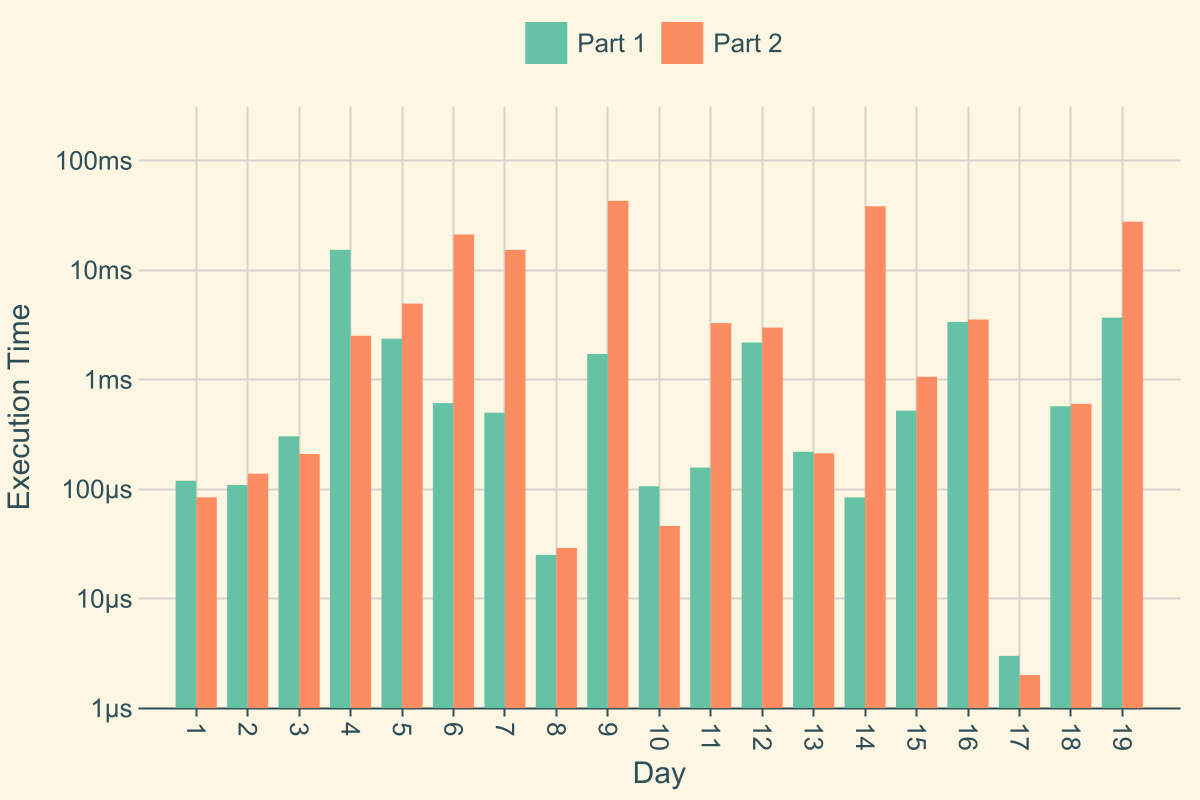
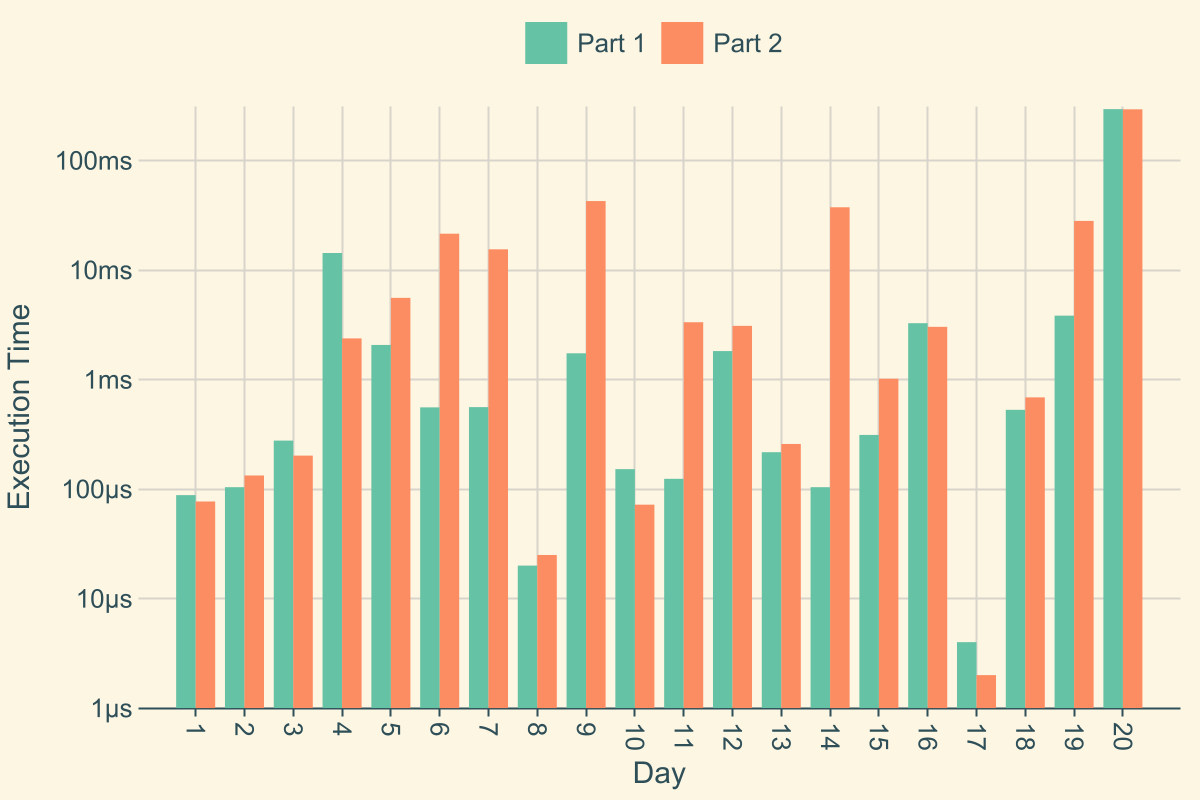
day20

Changed region(s): [[0.1233, 0.125, 0.9558, 0.9375]]

diff --git a/src/day20.rs b/src/day20.rs
@@ -1,0 +1,259 @@
+use crate::harness::Day;
+use crate::harness::Part;
+use std::cmp::max;
+use std::cmp::min;
+use std::collections::{HashMap, HashSet};
+use std::ops::{Add, AddAssign, Mul, Neg, Sub};
+use std::time::Instant;
+
+pub fn day20() -> Day<i32, i32> {
+    Day::new(20, Box::new(Part1 {}), Box::new(Part2 {}))
+}
+
+pub struct Part1;
+
+impl Part<i32> for Part1 {
+    fn expect_test(&self) -> i32 {
+        0
+    }
+
+    fn solve(&self, input: &[String]) -> i32 {
+        let input = Input::from(input);
+
+        let dist = input.dijkstra();
+
+        let get = |v: Vec2| {
+            dist.get(v.y as usize)
+                .and_then(|e| e.get(v.x as usize))
+                .filter(|&&e| e < i32::MAX / 4)
+                .cloned()
+        };
+
+        let mut result = 0;
+
+        let directions = vec![Vec2::EAST, Vec2::SOUTH];
+
+        for y in 1..input.height() - 1 {
+            for x in 1..input.width() - 1 {
+                let current = v(x as i32, y as i32);
+                if let Some(current_dist) = get(current) {
+                    for &direction in &directions {
+                        let other = current + direction * 2;
+                        if let Some(other_dist) = get(other) {
+                            let diff = (current_dist.abs_diff(other_dist) as i32) - 2;
+
+                            if diff >= 100 {
+                                result += 1;
+                            }
+                        }
+                    }
+                }
+            }
+        }
+
+        result
+    }
+}
+
+pub struct Part2;
+
+impl Part<i32> for Part2 {
+    fn expect_test(&self) -> i32 {
+        0
+    }
+
+    fn solve(&self, input: &[String]) -> i32 {
+        let input = Input::from(input);
+
+        let dist = input.dijkstra();
+
+        let get = |v: Vec2| {
+            dist.get(v.y as usize)
+                .and_then(|e| e.get(v.x as usize))
+                .filter(|&&e| e < i32::MAX / 4)
+                .cloned()
+        };
+
+        let mut result = 0;
+
+        for y1 in 1..input.height() - 1 {
+            for x1 in 1..input.width() - 1 {
+                for y2 in max(1, y1 - 20)..min(input.height() - 1, y1 + 20) {
+                    for x2 in max(1, x1 - 20)..min(input.width() - 1, x1 + 20) {
+                        let current = v(x1 as i32, y1 as i32);
+                        if let Some(current_dist) = get(current) {
+                            let other = v(x2 as i32, y2 as i32);
+                            if let Some(other_dist) = get(other) {
+                                let dist = current.manhattan_dist(other) as i32;
+                                let diff = current_dist.abs_diff(other_dist) as i32 - dist;
+
+                                if diff >= 100 {
+                                    result += 1;
+                                }
+                            }
+                        }
+                    }
+                }
+            }
+        }
+
+        result / 2
+    }
+}
+
+#[derive(Debug)]
+enum Tile {
+    Empty,
+    Wall,
+}
+
+#[derive(Debug)]
+struct Input {
+    map: Vec<Vec<Tile>>,
+    start: Vec2,
+    end: Vec2,
+}
+
+impl Input {
+    fn width(&self) -> usize {
+        self.map[0].len()
+    }
+    fn height(&self) -> usize {
+        self.map.len()
+    }
+
+    fn dijkstra(&self) -> Vec<Vec<i32>> {
+        let mut dist = vec![vec![i32::MAX / 2; self.width()]; self.height()];
+        dist[self.end.y as usize][self.end.x as usize] = 0;
+
+        let mut open = HashSet::from([self.end]);
+        let mut closed = HashSet::new();
+
+        while let Some(&u) = open.iter().min_by_key(|e| dist[e.y as usize][e.x as usize]) {
+            open.remove(&u);
+            if !closed.insert(u) {
+                continue;
+            }
+
+            for direction in Vec2::CARDINAL_DIRECTIONS {
+                let v = u + direction;
+
+                if let Tile::Wall = self.map[v.y as usize][v.x as usize] {
+                    continue;
+                }
+
+                let alt = dist[u.y as usize][u.x as usize] + 1;
+
+                if alt < dist[v.y as usize][v.x as usize] && !closed.contains(&v) {
+                    dist[v.y as usize][v.x as usize] = alt;
+                    open.insert(v);
+                }
+            }
+        }
+
+        dist
+    }
+}
+
+impl From<&[String]> for Input {
+    fn from(value: &[String]) -> Self {
+        let mut start = None;
+        let mut end = None;
+
+        let map = value
+            .iter()
+            .filter(|e| !e.is_empty())
+            .enumerate()
+            .map(|(y, s)| {
+                s.chars()
+                    .enumerate()
+                    .map(|(x, c)| match c {
+                        '.' => Tile::Empty,
+                        '#' => Tile::Wall,
+                        'S' => {
+                            start = Some(v(x as i32, y as i32));
+                            Tile::Empty
+                        }
+                        'E' => {
+                            end = Some(v(x as i32, y as i32));
+                            Tile::Empty
+                        }
+                        _ => panic!(),
+                    })
+                    .collect()
+            })
+            .collect();
+
+        Self {
+            map,
+            start: start.unwrap(),
+            end: end.unwrap(),
+        }
+    }
+}
+
+const fn v(x: i32, y: i32) -> Vec2 {
+    Vec2::new(x, y)
+}
+
+#[derive(Debug, Copy, Clone, Hash, Eq, PartialEq)]
+struct Vec2 {
+    x: i32,
+    y: i32,
+}
+
+impl Vec2 {
+    pub const fn new(x: i32, y: i32) -> Self {
+        Self { x, y }
+    }
+
+    pub const NORTH: Self = v(0, -1);
+    pub const EAST: Self = v(1, 0);
+    pub const SOUTH: Self = v(0, 1);
+    pub const WEST: Self = v(-1, 0);
+
+    pub const CARDINAL_DIRECTIONS: [Self; 4] = [Self::NORTH, Self::EAST, Self::SOUTH, Self::WEST];
+
+    fn manhattan_dist(&self, rhs: Vec2) -> u32 {
+        self.x.abs_diff(rhs.x) + self.y.abs_diff(rhs.y)
+    }
+}
+
+impl Add<Vec2> for Vec2 {
+    type Output = Self;
+
+    fn add(self, rhs: Vec2) -> Self::Output {
+        v(self.x + rhs.x, self.y + rhs.y)
+    }
+}
+
+impl AddAssign for Vec2 {
+    fn add_assign(&mut self, rhs: Self) {
+        self.x += rhs.x;
+        self.y += rhs.y;
+    }
+}
+
+impl Sub<Vec2> for Vec2 {
+    type Output = Self;
+
+    fn sub(self, rhs: Vec2) -> Self::Output {
+        v(self.x - rhs.x, self.y - rhs.y)
+    }
+}
+
+impl Neg for Vec2 {
+    type Output = Self;
+
+    fn neg(self) -> Self::Output {
+        v(-self.x, -self.y)
+    }
+}
+
+impl Mul<i32> for Vec2 {
+    type Output = Self;
+
+    fn mul(self, rhs: i32) -> Self::Output {
+        v(self.x * rhs, self.y * rhs)
+    }
+}

diff --git a/src/main.rs b/src/main.rs
@@ -28,7 +28,7 @@ use crate::day16::day16;
 use crate::day17::day17;
 use crate::day18::day18;
 use crate::day19::day19;
-// use crate::day20::day20;
+use crate::day20::day20;
 // use crate::day21::day21;
 // use crate::day22::day22;
 // use crate::day23::day23;
@@ -54,7 +54,7 @@ mod day16;
 mod day17;
 mod day18;
 mod day19;
-// mod day20;
+mod day20;
 // mod day21;
 // mod day22;
 // mod day23;
@@ -83,6 +83,7 @@ fn main() {
         day17().f(),
         day18().f(),
         day19().f(),
+        day20().f(),
     ];
 
     let run_one = |id: usize| (days[id - 1].f)();
